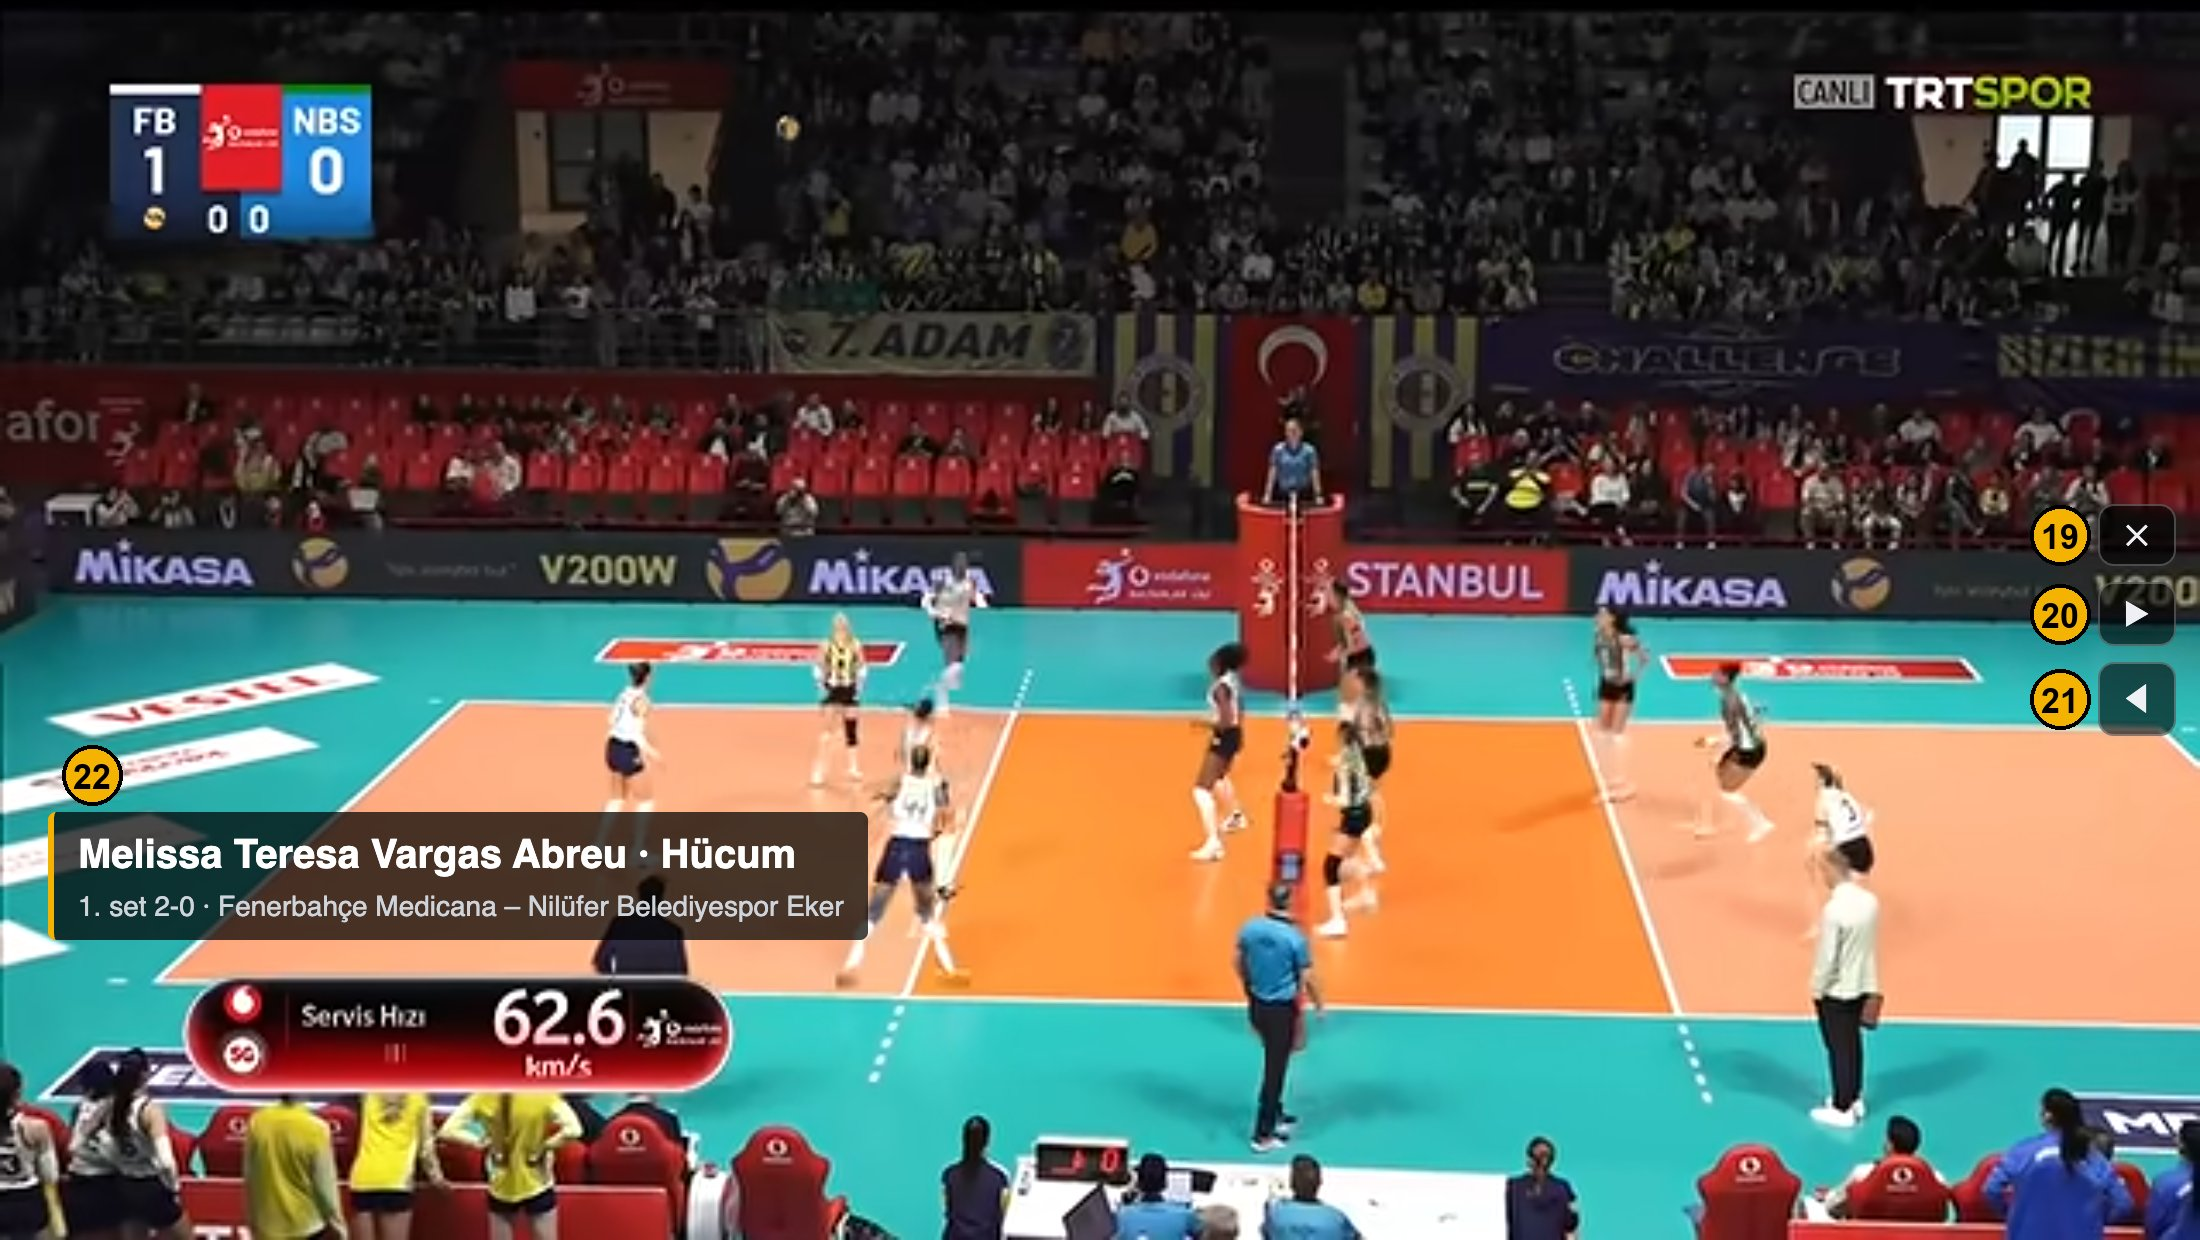
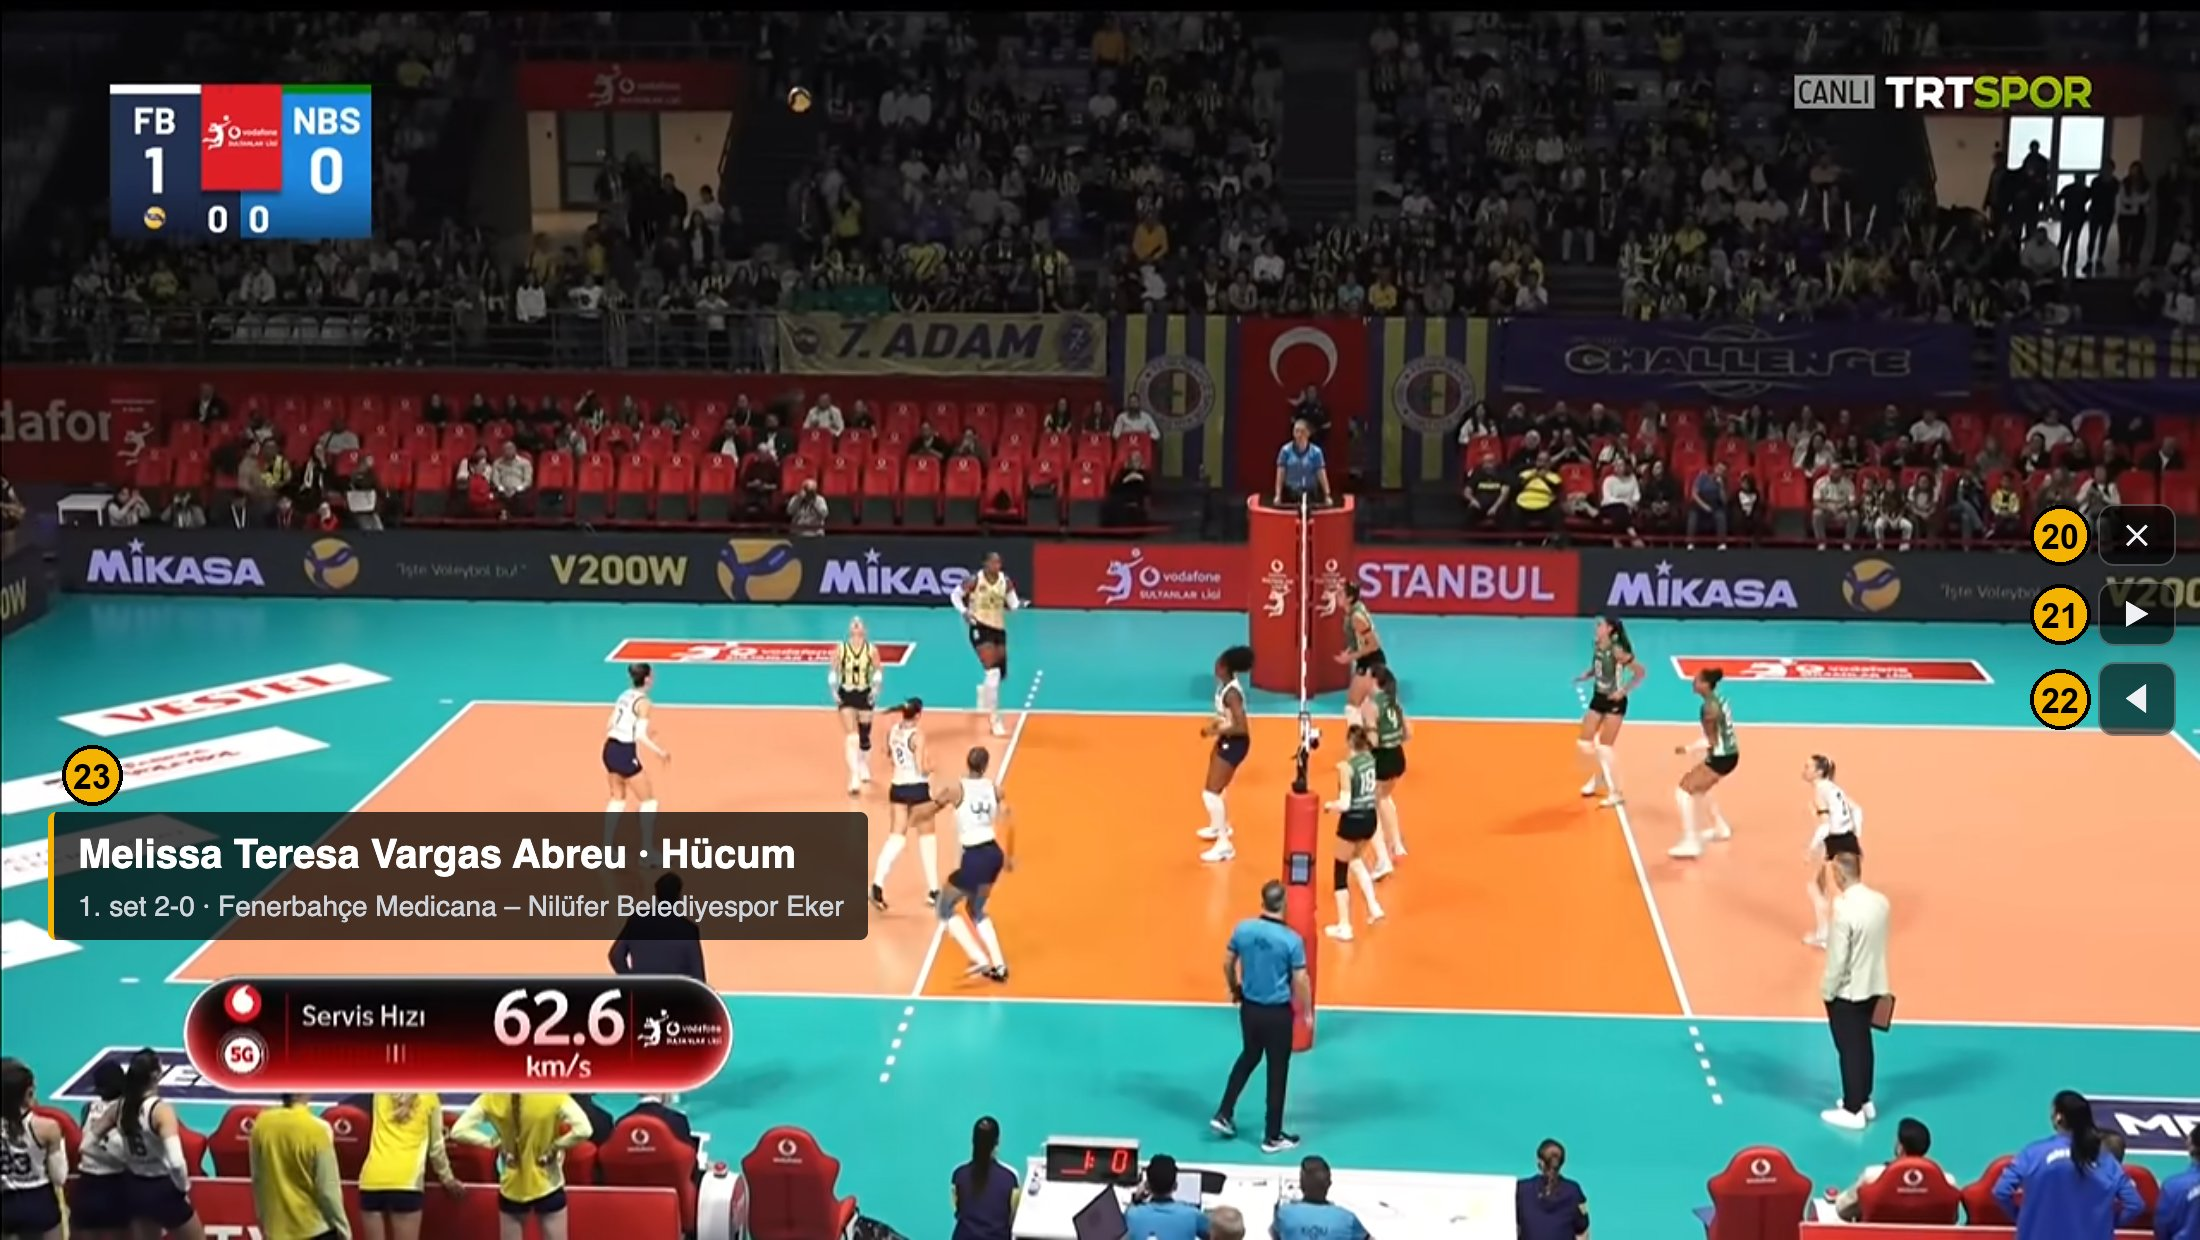
Oynatıcıda '🔗 YouTube': aynı metinle saniyeli YouTube linki (X'te gönderide video oynar); telefonda düğmeler iki satıra iner; yardım sayfası numaraları

diff --git a/yardim.html b/yardim.html
@@ -106,7 +106,7 @@
 
 <h2 id="ekran"><span class="l-tr">Ekran</span><span class="l-en">The screen</span></h2>
 <figure>
-  <a href="yardim/ana.jpg" target="_blank"><img src="yardim/ana.jpg" width="1100" height="1395" alt="Sitenin ekranı, numaralı düğmeler / The site with numbered controls"></a>
+  <a href="yardim/ana.jpg" target="_blank"><img src="yardim/ana.jpg" width="1100" height="1413" alt="Sitenin ekranı, numaralı düğmeler / The site with numbered controls"></a>
   <figcaption class="l-tr">Numaralar aşağıdaki listede. Bilgisayar ekranı; telefonda aynı düğmeler alt alta. Büyütmek için görsele dokun.</figcaption>
   <figcaption class="l-en">Numbers are explained below. Desktop screen; on a phone the same controls stack vertically. Tap the image to enlarge.</figcaption>
 </figure>
@@ -125,10 +125,11 @@
   <li><b class="n">12</b><span><b>Önceki / Sonraki.</b> Listede bir önceki / sonraki sayı. Klavyede <kbd>←</kbd> <kbd>→</kbd>.</span></li>
   <li><b class="n">13</b><span><b>YouTube ↗.</b> Oynayan videoyu YouTube'da şu anki saniyeden açar (sayfadaki oynatıcı durur).</span></li>
   <li><b class="n">14</b><span><b>🔗 Bu sayının linki.</b> Sadece bu sayıyı açan link; telefonda paylaşma menüsü açılır.</span></li>
-  <li><b class="n">15</b><span><b>Tam ekran.</b> Klavyede <kbd>F</kbd>. Tam ekrandaki düğmeler <a href="#tam">aşağıda</a>.</span></li>
-  <li><b class="n">16</b><span><b>Listeyi paylaş.</b> Bu seçimi (takım, hafta, oyuncu, türler) açan link; X'te takımın kapağıyla görünür.</span></li>
-  <li><b class="n">17</b><span><b>?</b> Bu sayfa. Dar telefon ekranında giriş metninin sonundaki "Yardım" linki.</span></li>
-  <li><b class="n">18</b><span><b>EN / TR.</b> Dil; tarayıcıda hatırlanır.</span></li>
+  <li><b class="n">15</b><span><b>🔗 YouTube.</b> Aynı metin, link YouTube'un (saniyeli); X'te gönderinin içinde video oynar.</span></li>
+  <li><b class="n">16</b><span><b>Tam ekran.</b> Klavyede <kbd>F</kbd>. Tam ekrandaki düğmeler <a href="#tam">aşağıda</a>.</span></li>
+  <li><b class="n">17</b><span><b>Listeyi paylaş.</b> Bu seçimi (takım, hafta, oyuncu, türler) açan link; X'te takımın kapağıyla görünür.</span></li>
+  <li><b class="n">18</b><span><b>?</b> Bu sayfa. Dar telefon ekranında giriş metninin sonundaki "Yardım" linki.</span></li>
+  <li><b class="n">19</b><span><b>EN / TR.</b> Dil; tarayıcıda hatırlanır.</span></li>
 </ol>
 <ol class="keys l-en">
   <li><b class="n">1</b><span><b>Tabs.</b> Points and digs, or the longest rallies (rallies with at least 4 attacks, ranked by attacks).</span></li>
@@ -145,10 +146,11 @@
   <li><b class="n">12</b><span><b>Prev / Next.</b> Previous / next point in the list. Keyboard <kbd>←</kbd> <kbd>→</kbd>.</span></li>
   <li><b class="n">13</b><span><b>YouTube ↗.</b> Opens the playing video on YouTube from the current second (the embedded player stops).</span></li>
   <li><b class="n">14</b><span><b>🔗 Link to this point.</b> A link that opens just this point; on a phone the share menu opens.</span></li>
-  <li><b class="n">15</b><span><b>Full screen.</b> Keyboard <kbd>F</kbd>. Full-screen controls are <a href="#tam">below</a>.</span></li>
-  <li><b class="n">16</b><span><b>Share list.</b> A link to this selection (team, week, player, types); on X it shows the team's card.</span></li>
-  <li><b class="n">17</b><span><b>?</b> This page. On a narrow phone screen, the "Help" link at the end of the intro text.</span></li>
-  <li><b class="n">18</b><span><b>EN / TR.</b> Language; remembered in this browser.</span></li>
+  <li><b class="n">15</b><span><b>🔗 YouTube.</b> The same text with the YouTube link (with the second); on X the video plays inside the post.</span></li>
+  <li><b class="n">16</b><span><b>Full screen.</b> Keyboard <kbd>F</kbd>. Full-screen controls are <a href="#tam">below</a>.</span></li>
+  <li><b class="n">17</b><span><b>Share list.</b> A link to this selection (team, week, player, types); on X it shows the team's card.</span></li>
+  <li><b class="n">18</b><span><b>?</b> This page. On a narrow phone screen, the "Help" link at the end of the intro text.</span></li>
+  <li><b class="n">19</b><span><b>EN / TR.</b> Language; remembered in this browser.</span></li>
 </ol>
 
 <h2 id="tam"><span class="l-tr">Tam ekran</span><span class="l-en">Full screen</span></h2>
@@ -156,16 +158,16 @@
   <a href="yardim/tam.jpg" target="_blank"><img src="yardim/tam.jpg" width="1100" height="620" alt="Tam ekran / Full screen"></a>
 </figure>
 <ol class="keys l-tr">
-  <li><b class="n">19</b><span><b>✕</b> Tam ekrandan çık. Klavyede <kbd>Esc</kbd>.</span></li>
-  <li><b class="n">20</b><span><b>▶</b> Sonraki sayı. Klavyede <kbd>→</kbd>.</span></li>
-  <li><b class="n">21</b><span><b>◀</b> Önceki sayı. Klavyede <kbd>←</kbd>.</span></li>
-  <li><b class="n">22</b><span><b>Alt yazı.</b> Her sayının başında birkaç saniye: oyuncu, tür, set ve skor, maç.</span></li>
+  <li><b class="n">20</b><span><b>✕</b> Tam ekrandan çık. Klavyede <kbd>Esc</kbd>.</span></li>
+  <li><b class="n">21</b><span><b>▶</b> Sonraki sayı. Klavyede <kbd>→</kbd>.</span></li>
+  <li><b class="n">22</b><span><b>◀</b> Önceki sayı. Klavyede <kbd>←</kbd>.</span></li>
+  <li><b class="n">23</b><span><b>Alt yazı.</b> Her sayının başında birkaç saniye: oyuncu, tür, set ve skor, maç.</span></li>
 </ol>
 <ol class="keys l-en">
-  <li><b class="n">19</b><span><b>✕</b> Exit full screen. Keyboard <kbd>Esc</kbd>.</span></li>
-  <li><b class="n">20</b><span><b>▶</b> Next point. Keyboard <kbd>→</kbd>.</span></li>
-  <li><b class="n">21</b><span><b>◀</b> Previous point. Keyboard <kbd>←</kbd>.</span></li>
-  <li><b class="n">22</b><span><b>Caption.</b> For a few seconds at the start of each point: player, type, set and score, match.</span></li>
+  <li><b class="n">20</b><span><b>✕</b> Exit full screen. Keyboard <kbd>Esc</kbd>.</span></li>
+  <li><b class="n">21</b><span><b>▶</b> Next point. Keyboard <kbd>→</kbd>.</span></li>
+  <li><b class="n">22</b><span><b>◀</b> Previous point. Keyboard <kbd>←</kbd>.</span></li>
+  <li><b class="n">23</b><span><b>Caption.</b> For a few seconds at the start of each point: player, type, set and score, match.</span></li>
 </ol>
 <p class="l-tr mute">iPhone'da tarayıcılar tam ekranda adres çubuğunu gizlemiyor; siteyi Safari'den ana ekrana eklersen
   uygulama gibi açılır (<a href="#sss-iphone">aşağıda</a>).</p>
@@ -248,8 +250,8 @@
   <p>Ralli bittikten sonra: Tekrarı izle kapalıyken 10 saniye, açıkken 20 saniye (yayındaki tekrar da görünsün diye);
     dig'lerde 4 saniye. Geçişte ekran kısa bir süre kararır ve sıradaki sayının alt yazısı çıkar.</p></div></details>
 <details><summary>Linkler ne açıyor?</summary><div>
-  <p>Adres çubuğundaki link her zaman o anki seçimi (takım, hafta, maç, oyuncu, türler) açar. "Listeyi paylaş" (16)
-    bu seçimin linkini, 🔗 (14) sadece oynayan sayının linkini verir. "Son hafta" seçiliyken bu iki düğmeyle paylaşılan
+  <p>Adres çubuğundaki link her zaman o anki seçimi (takım, hafta, maç, oyuncu, türler) açar. "Listeyi paylaş" (17)
+    bu seçimin linkini, 🔗 (14) sadece oynayan sayının linkini, 🔗 YouTube (15) aynı sayının saniyeli YouTube linkini verir (X'te gönderinin içinde video oynar; sitenin linkini gönderinin altına yanıt olarak ekleyebilirsin). "Son hafta" seçiliyken bu iki düğmeyle paylaşılan
     link haftanın numarasıyla gider (ör. 9. hafta), gelecek hafta da aynı sayıları açar. Adres çubuğundaki link ise
     her zaman en son haftayı açar; "son haftanın sayıları" için yer imi olarak kullanılabilir.</p></div></details>
 <details><summary>En uzun ralliler nasıl sıralanıyor?</summary><div>
@@ -291,8 +293,8 @@
   <p>After the rally ends: 10 seconds with Watch replay off, 20 seconds with it on (so the broadcast replay shows);
     4 seconds for digs. The screen briefly fades and the next point's caption appears.</p></div></details>
 <details><summary>What do the links open?</summary><div>
-  <p>The address bar always holds the current selection (team, week, match, player, types). "Share list" (16) gives a
-    link to this selection, 🔗 (14) a link to just the playing point. When "Latest week" is selected, a link shared with
+  <p>The address bar always holds the current selection (team, week, match, player, types). "Share list" (17) gives a
+    link to this selection, 🔗 (14) a link to just the playing point, 🔗 YouTube (15) the YouTube link of that point with the second (on X the video plays inside the post; add the site link as a reply). When "Latest week" is selected, a link shared with
     these two buttons uses the week number (e.g. week 9), so it keeps opening the same points next week. The link in the
     address bar always opens the latest week; use it as a bookmark for "the latest week's points".</p></div></details>
 <details><summary>How are the longest rallies ranked?</summary><div>

diff --git a/index.html b/index.html
@@ -94,6 +94,7 @@
   .offset b { color:var(--fg); min-width:40px; text-align:center; }
   .ctl { display:flex; flex-wrap:wrap; gap:8px 18px; align-items:center; justify-content:flex-end; margin-left:auto; }
   .nav { white-space:nowrap; }
+  @media (max-width:640px) { .nav { white-space:normal; display:flex; flex-wrap:wrap; gap:6px; justify-content:flex-end; } }
   label.auto { display:inline-flex; gap:5px; align-items:center; margin:0; font-size:13px; color:var(--fg); white-space:nowrap; }
   button { padding:6px 12px; border:1px solid var(--line); border-radius:8px; background:var(--card2); color:var(--fg);
            font-size:14px; cursor:pointer; }
@@ -290,6 +291,7 @@
         <span class="nav"><button id="prev" data-t="prev">◀ Önceki</button> <button id="next" data-t="next">Sonraki ▶</button>
           <button id="ytopen" data-it="ytopen" title="YouTube'da aç (şu anki saniyeden)">YouTube ↗</button>
           <button id="shareclip" data-it="shareclip" title="Bu sayının linki">🔗</button>
+          <button id="shareyt" data-it="shareyt" title="YouTube linkiyle paylaş (X'te video oynar)">🔗 YouTube</button>
           <button id="fs" data-it="fs" title="Tam ekran (F)">⛶</button></span>
       </span></div>
   </div>
@@ -330,7 +332,7 @@ const I18N = {
        delay_title: 'Video erken başlıyorsa +, geç başlıyorsa − (bu tarayıcıda hatırlanır)', auto: 'Sırayla oynat',
        auto_title: 'Ralli bitince listedeki bir sonraki sayıya geç', replay: 'Tekrarı izle',
        replay_title: "Sıradakine geçmeden yayındaki tekrarı da bekle (dig'lerde beklenmez)", prev: '◀ Önceki', next: 'Sonraki ▶',
-       help: 'Yardım ve sık sorulan sorular', help_link: 'Yardım ve sık sorulan sorular →', shareclip: 'Bu sayının linki', home: 'Ana sayfa', ytopen: "YouTube'da aç (şu anki saniyeden)", fs: 'Tam ekran (F)', sharelist: '🔗 Listeyi paylaş', sharelist_title: 'Bu listenin linki',
+       help: 'Yardım ve sık sorulan sorular', help_link: 'Yardım ve sık sorulan sorular →', shareclip: 'Bu sayının linki', shareyt: "YouTube linkiyle paylaş (X'te video oynar)", home: 'Ana sayfa', ytopen: "YouTube'da aç (şu anki saniyeden)", fs: 'Tam ekran (F)', sharelist: '🔗 Listeyi paylaş', sharelist_title: 'Bu listenin linki',
        end: 'Listenin sonu', again: '↺ Baştan', fexit: 'Tam ekrandan çık', fnext: 'Sonraki', fprev: 'Önceki',
        loading: 'Veri yükleniyor…', loading2: 'Yükleniyor…', fail: 'Veri okunamadı: ', all_matches: 'Bütün maçlar',
        novideo_tag: ' (video yok)', novideo: 'Videosuna ulaşamadığımız maçlar: ', all_players: 'Bütün oyuncular',
@@ -351,7 +353,7 @@ const I18N = {
        delay_title: 'If the clip starts early press +, if late − (remembered in this browser)', auto: 'Play next',
        auto_title: 'When the rally ends, go to the next one in the list', replay: 'Watch replay',
        replay_title: 'Wait for the broadcast replay before moving on (not for digs)', prev: '◀ Prev', next: 'Next ▶',
-       help: 'Help and FAQ', help_link: 'Help and FAQ →', shareclip: 'Link to this point', home: 'Home', ytopen: 'Open on YouTube (from the current second)', fs: 'Full screen (F)', sharelist: '🔗 Share list', sharelist_title: 'Link to this list',
+       help: 'Help and FAQ', help_link: 'Help and FAQ →', shareclip: 'Link to this point', shareyt: 'Share the YouTube link (plays inside the post on X)', home: 'Home', ytopen: 'Open on YouTube (from the current second)', fs: 'Full screen (F)', sharelist: '🔗 Share list', sharelist_title: 'Link to this list',
        end: 'End of list', again: '↺ Restart', fexit: 'Exit full screen', fnext: 'Next', fprev: 'Previous',
        loading: 'Loading data…', loading2: 'Loading…', fail: 'Could not load data: ', all_matches: 'All matches',
        novideo_tag: ' (no video)', novideo: 'Matches without video: ', all_players: 'All players',
@@ -821,6 +823,11 @@ $('sharelist').onclick = () => {
 $('shareclip').onclick = () => {
   const r = SHOWN[CUR]; if (!r) return;
   share(shareUrl(clipId(r)), `${lbl(r).join(' · ')} · ${r.ev} – ${r.dep}`);
+};
+// aynı metin, link YouTube'un (saniyeli): X gönderide YouTube kartını gösterir, video gönderinin içinde oynar
+$('shareyt').onclick = () => {
+  const r = SHOWN[CUR]; if (!r) return;
+  share(`https://youtu.be/${r.video}?t=${sec(r)}`, `${lbl(r).join(' · ')} · ${r.ev} – ${r.dep}`);
 };
 $('again').onclick = () => { CUR = -1; step(1); };
 // oynayan videoyu YouTube'da şu anki saniyeden aç (oynatıcı durdurulur, iki yerde ses olmasın)
